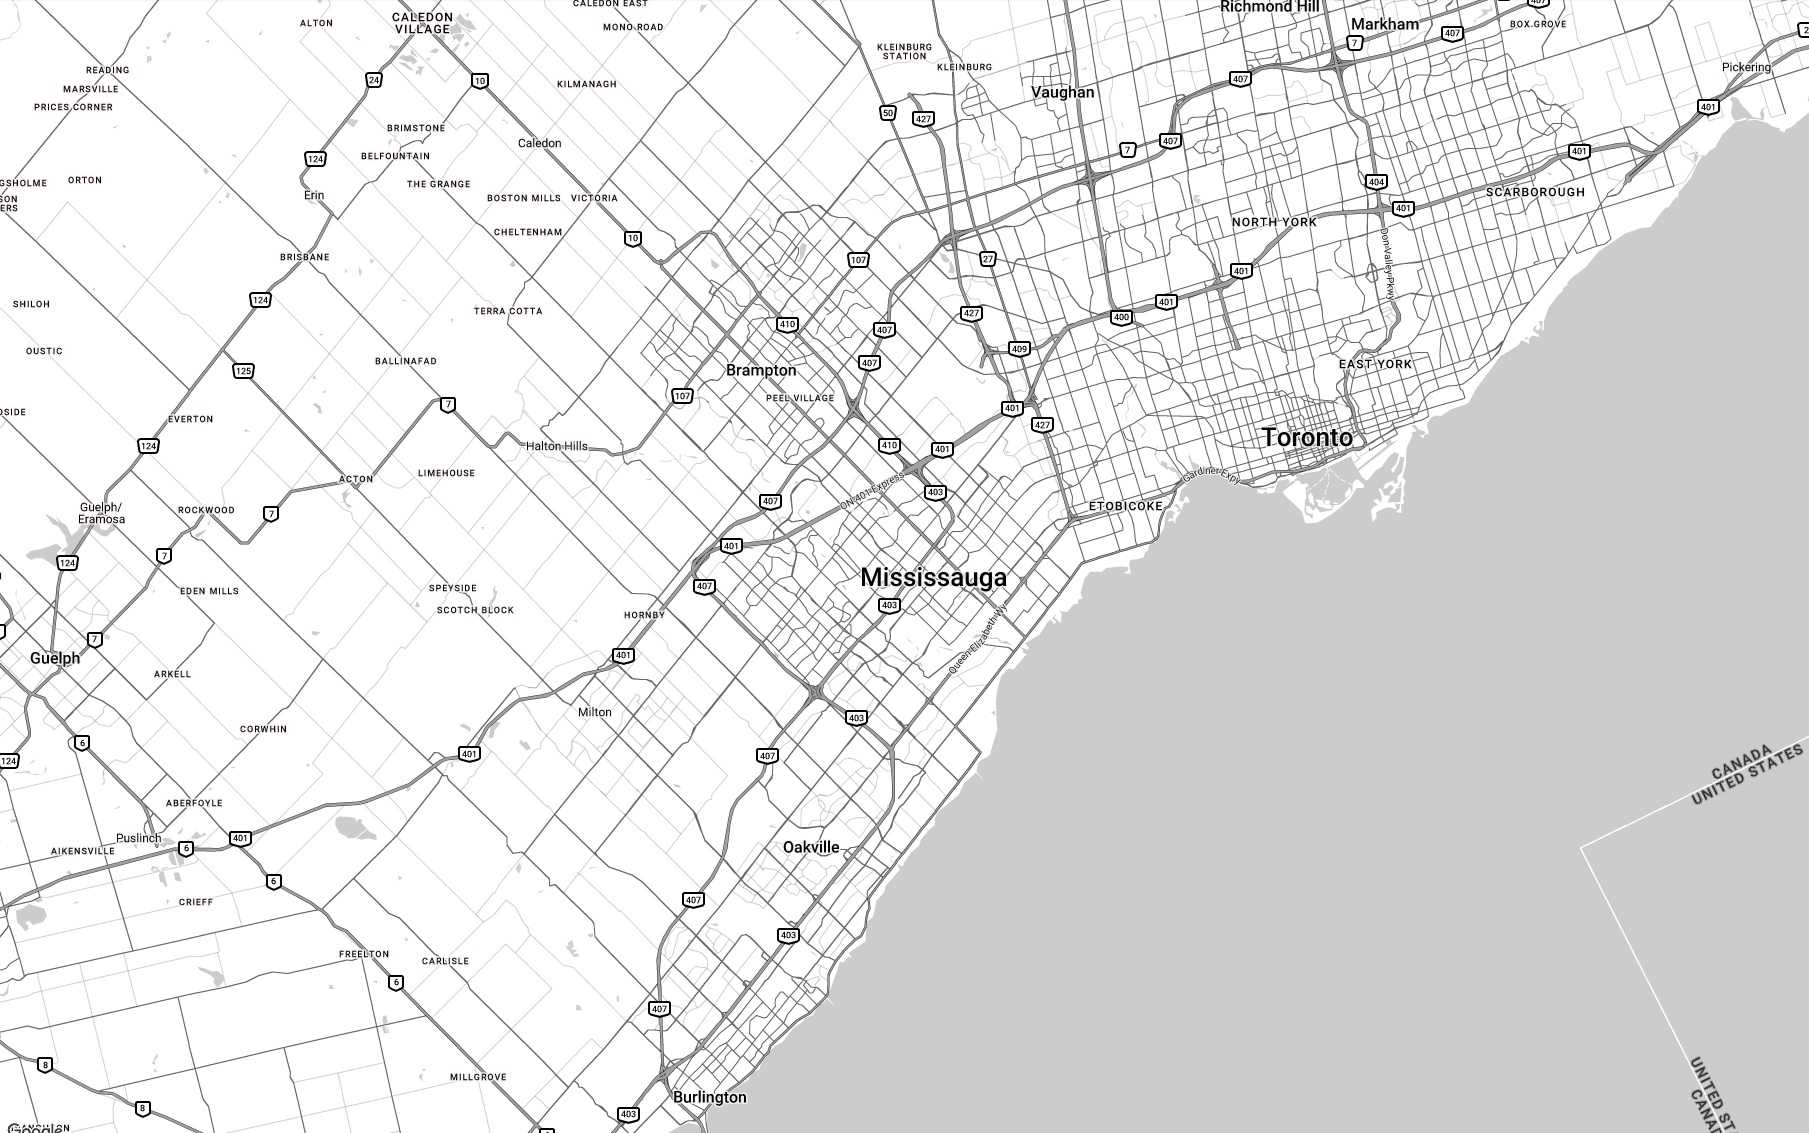
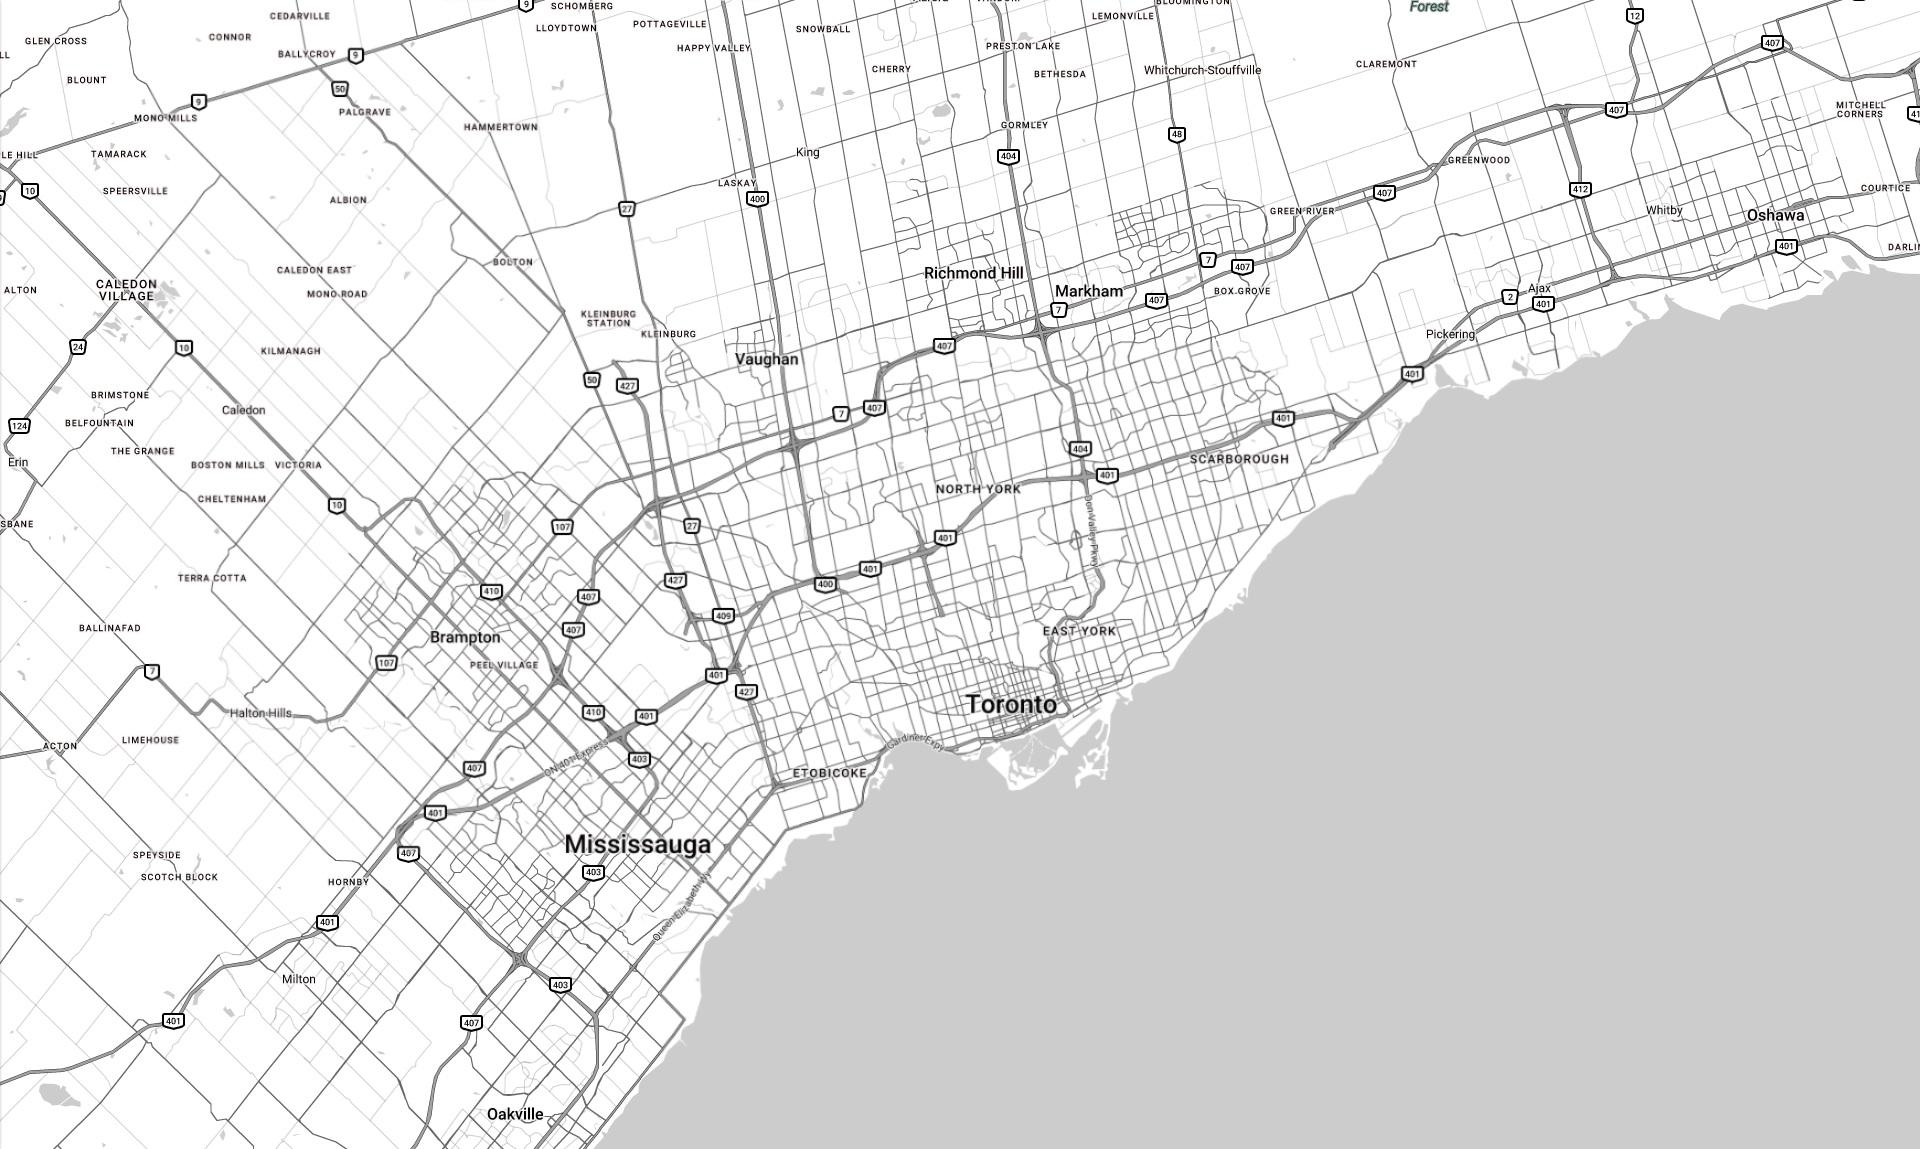
update

diff --git a/privacy.html b/privacy.html
@@ -236,7 +236,7 @@
                                 <div class="main-paragraph absolute">About</div>
                                 <div class="line-link"></div>
                             </a>
-                            <a href="/contact" class="main-link w-inline-block active">
+                            <a href="/contact" class="main-link w-inline-block">
                                 <div class="main-paragraph">Contact</div>
                                 <div class="main-paragraph absolute">Contact</div>
                                 <div class="line-link"></div>

diff --git a/terms.html b/terms.html
@@ -236,7 +236,7 @@
                                 <div class="main-paragraph absolute">About</div>
                                 <div class="line-link"></div>
                             </a>
-                            <a href="/contact" class="main-link w-inline-block active">
+                            <a href="/contact" class="main-link w-inline-block">
                                 <div class="main-paragraph">Contact</div>
                                 <div class="main-paragraph absolute">Contact</div>
                                 <div class="line-link"></div>
